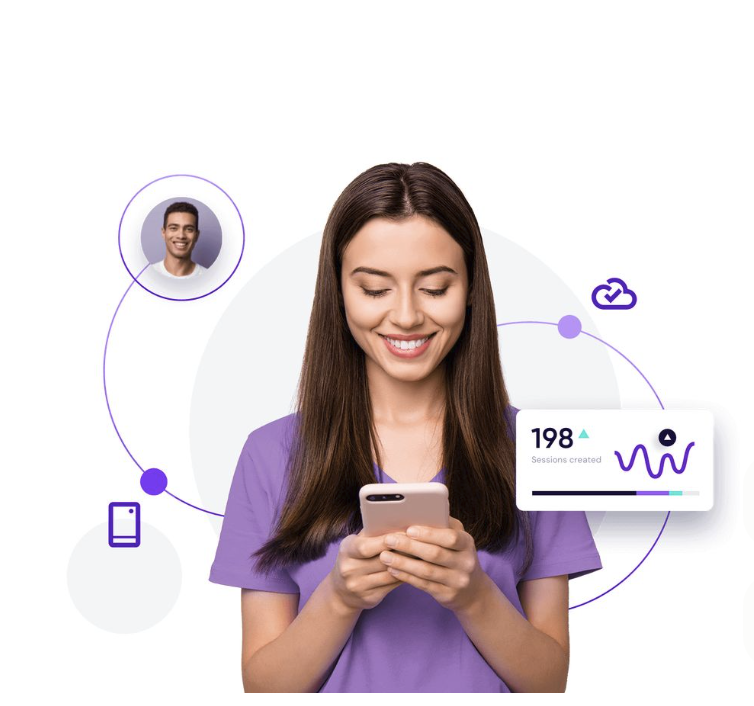
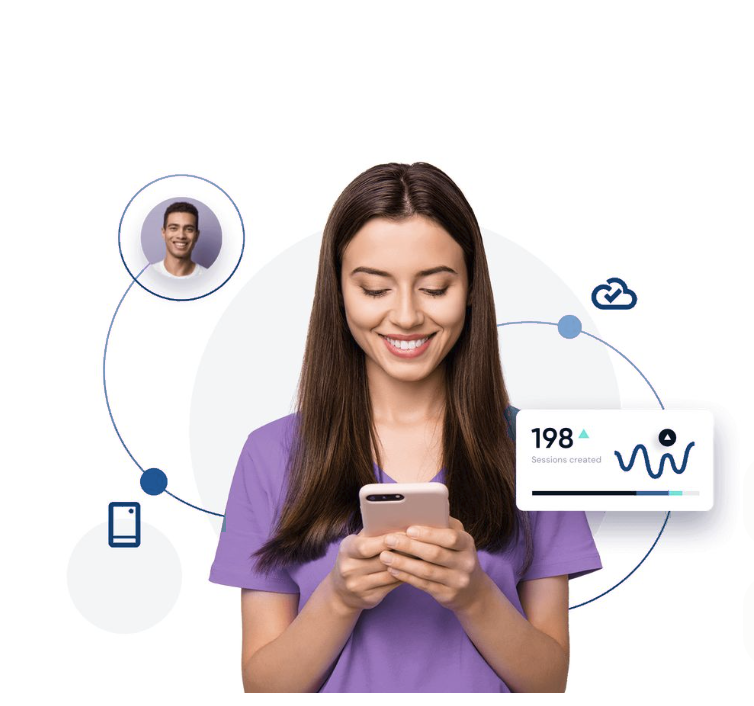
Why makers illustration: theme-blue lines, no floating motion

diff --git a/components/HomePage.tsx b/components/HomePage.tsx
@@ -1084,7 +1084,7 @@ export default function Home() {
                 width={754}
                 height={706}
                 loading="lazy"
-                className="float-slow relative w-full max-w-[560px] h-auto mx-auto"
+                className="relative w-full max-w-[560px] h-auto mx-auto"
               />
             </div>
           </div>
